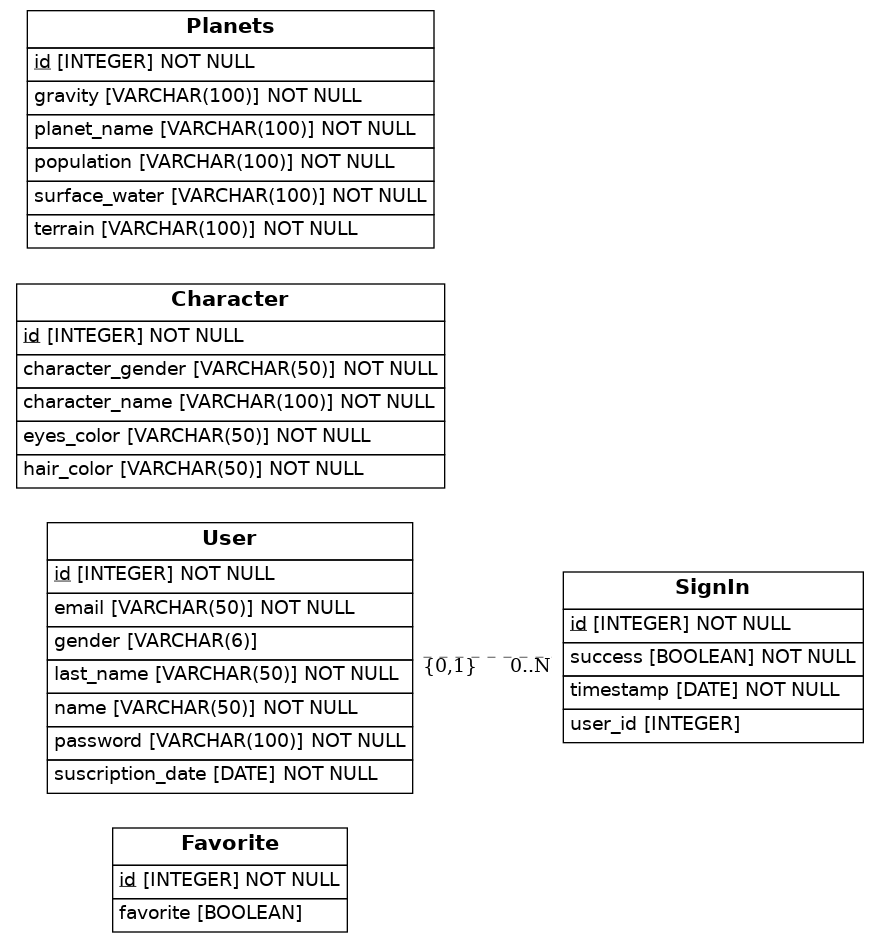
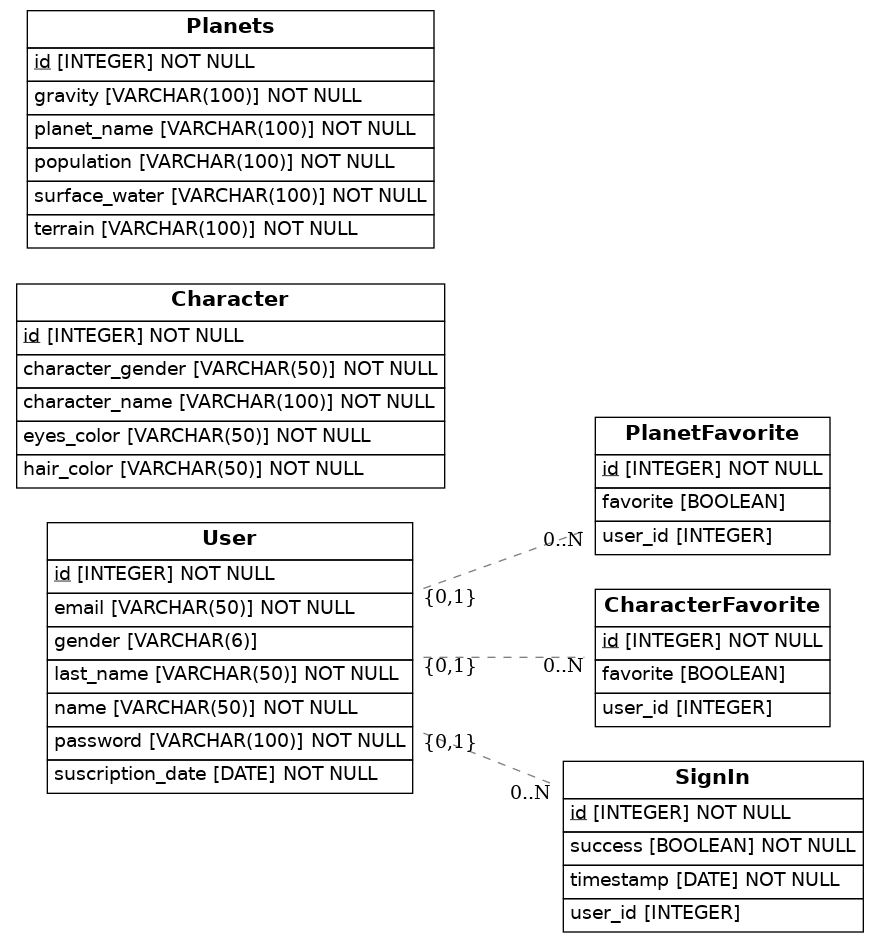
Add relationship between User and Characters

diff --git a/src/models.py b/src/models.py
@@ -25,12 +25,24 @@ class User(Base):
     suscription_date = Column(Date, nullable=False)
 
     SignIns = relationship("SignIn", backref="signIn")
-    
-class Favorite(Base):
-    __tablename__ = "Favorite"
+    planetsFavorites = relationship("PlanetFavorite", backref="planetFavorite")
+    charactersFavorites = relationship("CharacterFavorite", backref="characterFavorite")
+
+class PlanetFavorite(Base):
+    __tablename__ = "PlanetFavorite"
 
     id = Column(Integer, primary_key=True)
     favorite = Column(Boolean, default=False)
+
+    user_id = Column(Integer, ForeignKey("User.id"))
+
+class CharacterFavorite(Base):
+    __tablename__ = "CharacterFavorite"
+
+    id = Column(Integer, primary_key=True)
+    favorite = Column(Boolean, default=False)
+
+    user_id = Column(Integer, ForeignKey("User.id"))
 
 class SignIn(Base):
     __tablename__ = "SignIn"
@@ -40,8 +52,6 @@ class SignIn(Base):
     success = Column(Boolean, nullable=False)    
 
     user_id = Column(Integer, ForeignKey("User.id"))
-
-
 
 class Character(Base):
     __tablename__ = "Character"    
